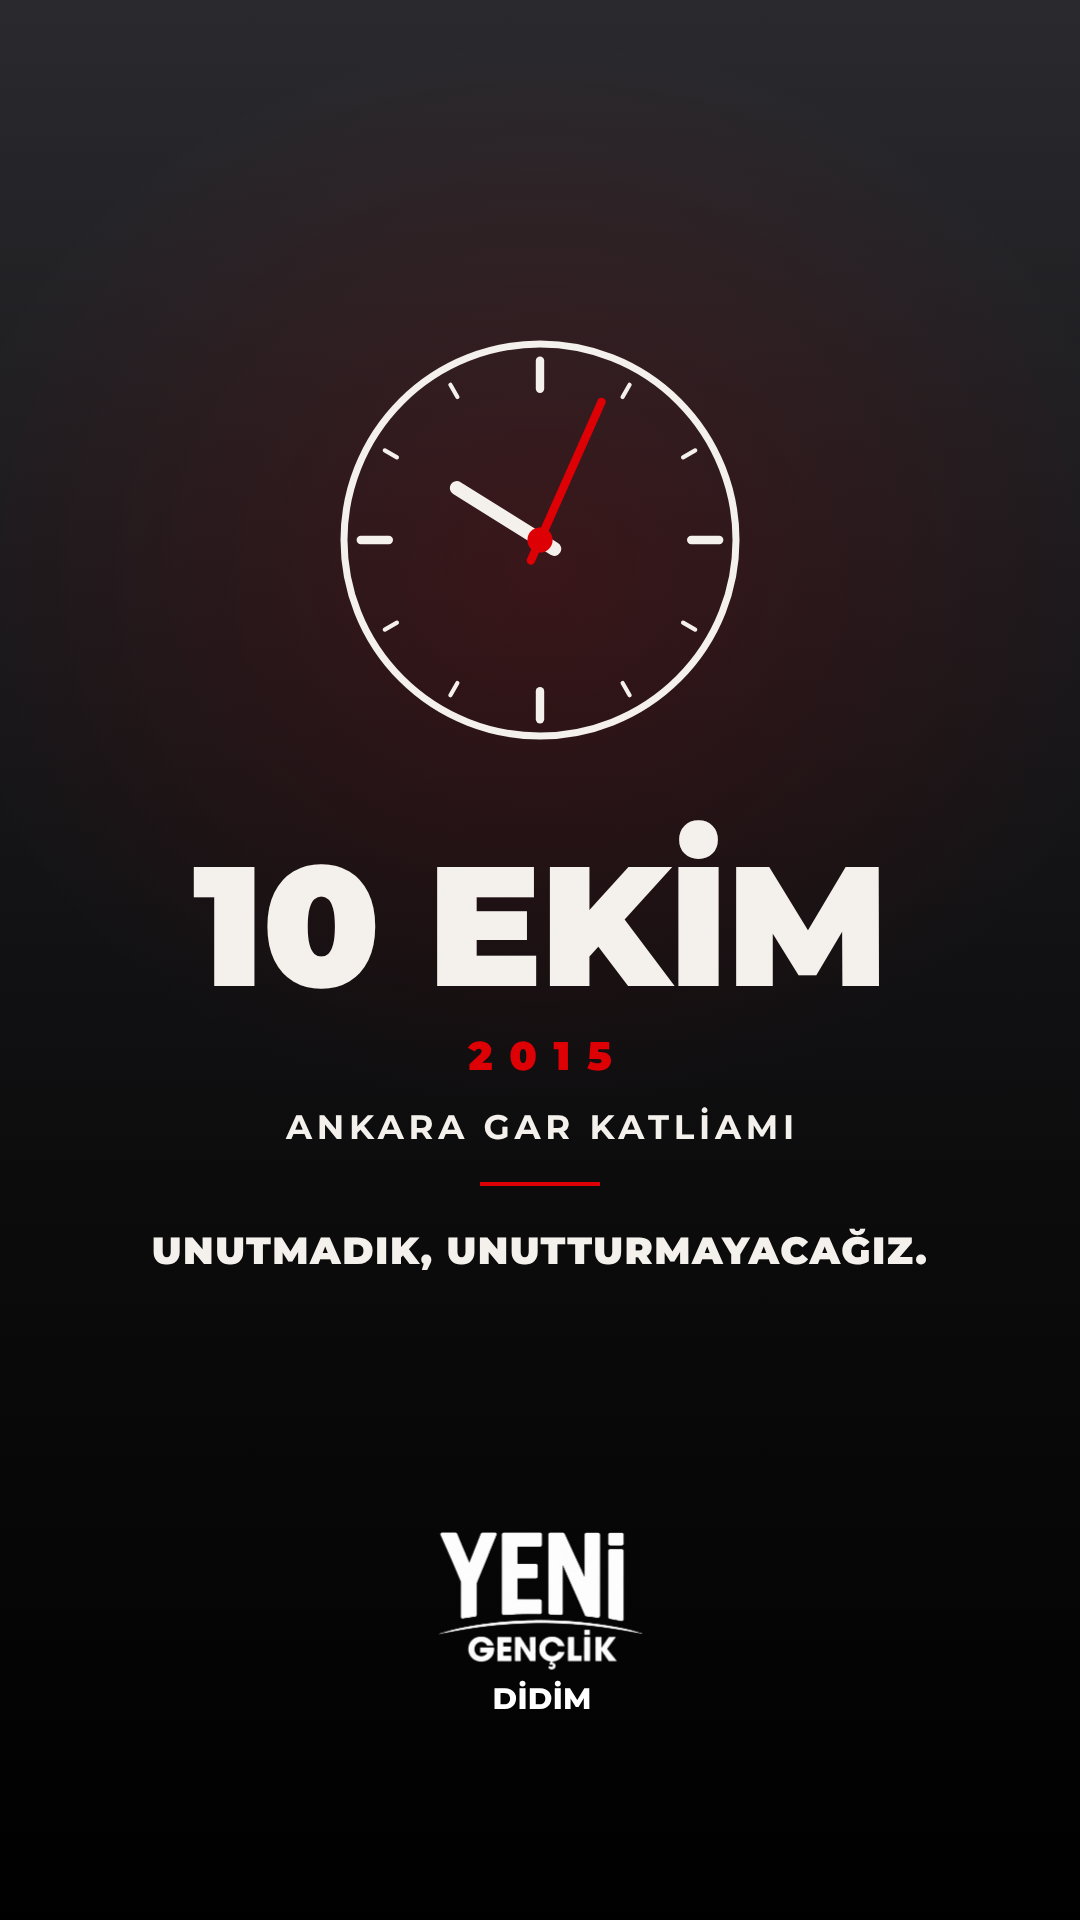
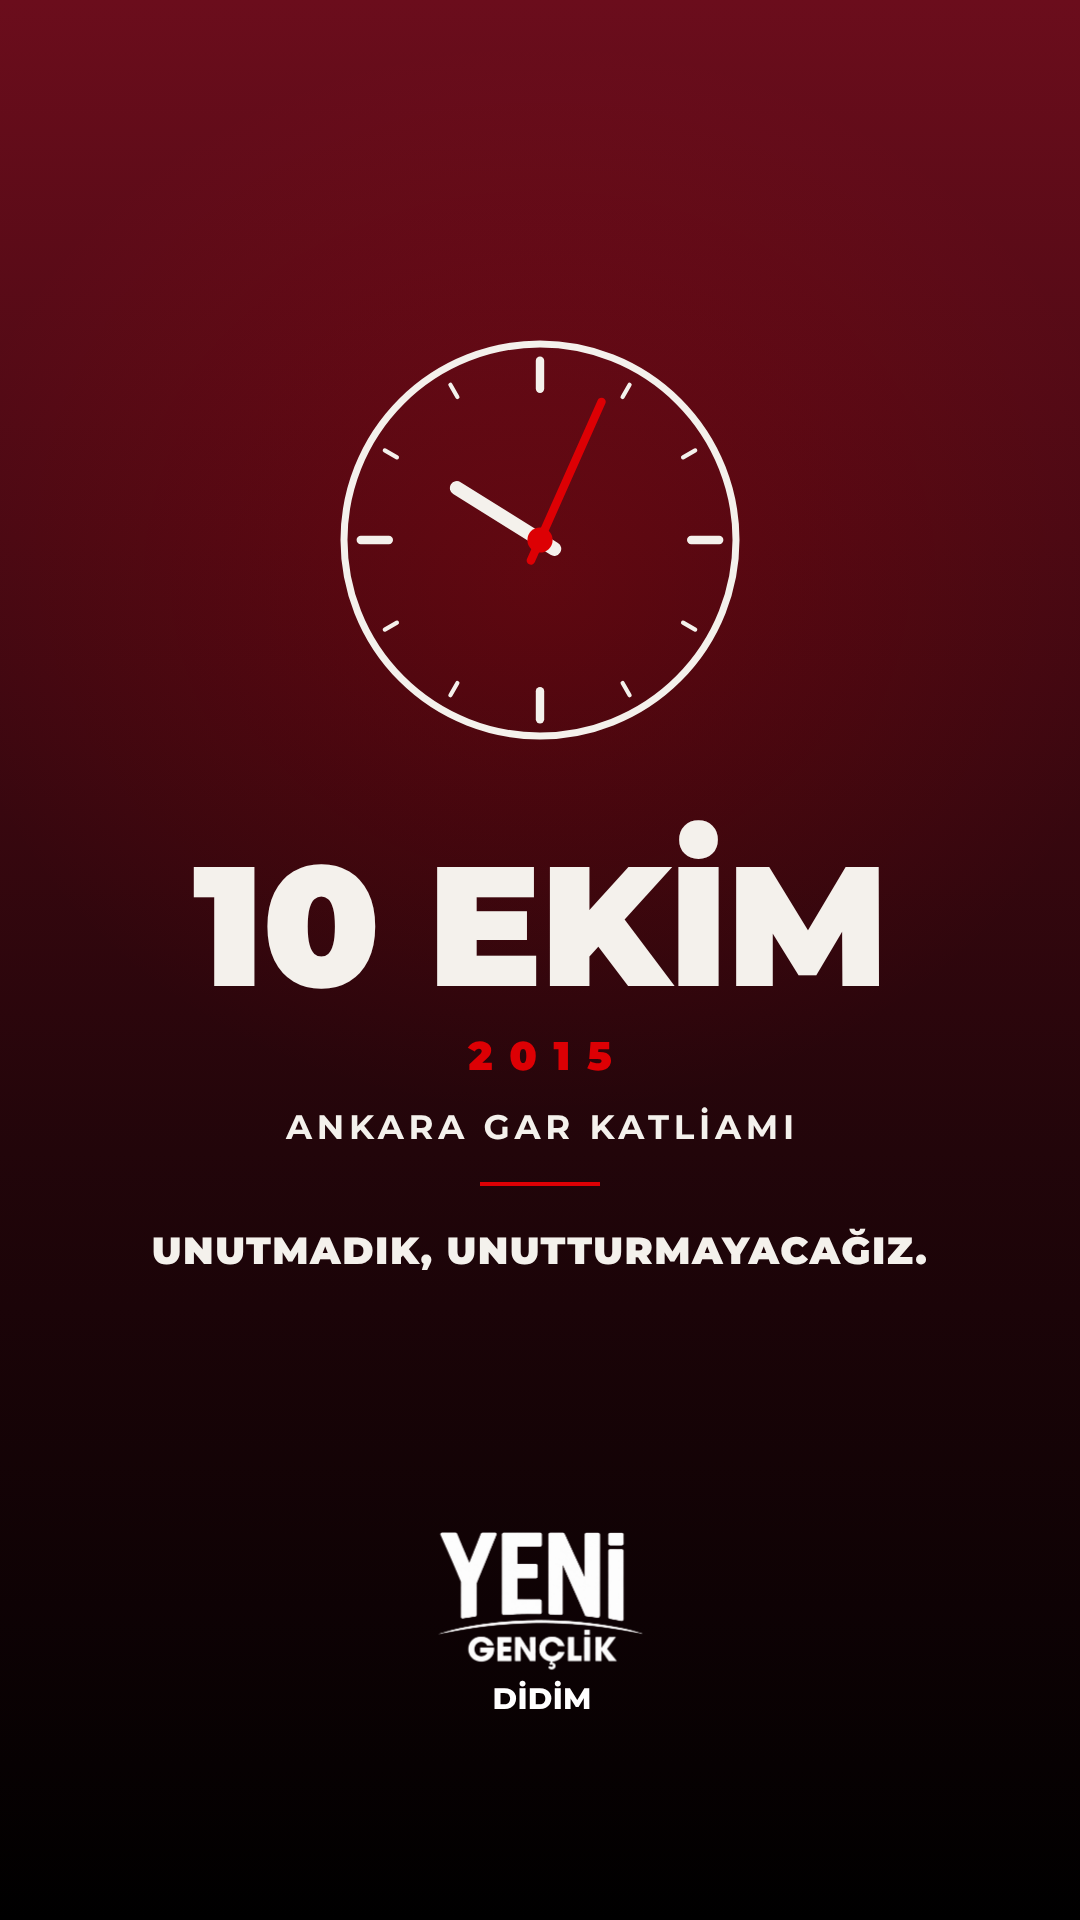
Hikâye zemini: bordodan siyaha geçiş
Claude-Session: https://claude.ai/code/session_01SatttGbgBLoCnk9KGLypWv

diff --git a/tasarim/10-ekim-gar-story.html b/tasarim/10-ekim-gar-story.html
@@ -7,7 +7,7 @@
 
 :root{--kirmizi:#DD0004;--zemin:#0B0B0C;--beyaz:#F4F1EC;--gri:#A9A6A1}
 html,body{margin:0;width:1080px;height:1920px;background:var(--zemin);overflow:hidden}
-body{background:linear-gradient(to bottom,#2A2A2E 0%,#1A1A1D 30%,#0C0C0D 62%,#000 100%);position:relative;color:var(--beyaz);font-family:Metin,sans-serif}
+body{background:linear-gradient(to bottom,#6B0D1C 0%,#4A0913 28%,#22050A 60%,#000 100%);position:relative;color:var(--beyaz);font-family:Metin,sans-serif}
 
 /* hafif doku */
 body::before{content:"";position:absolute;inset:0;
